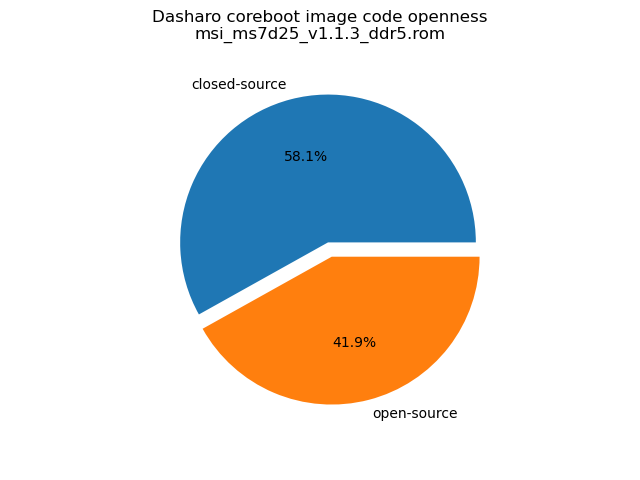
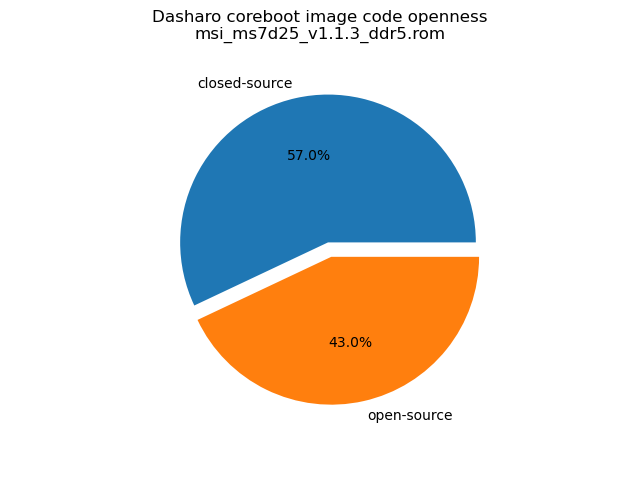
docs/variants/msi_z690: Update the v1.1.3 release info

diff --git a/docs/variants/msi_z690/releases.md b/docs/variants/msi_z690/releases.md
@@ -11,10 +11,10 @@ For details about our release process please read
 [newsletter]{.md-button .md-button--primary .center}
 </center>
 
-Test results for this platform can be found
-[here](https://docs.google.com/spreadsheets/d/16wokQYhtS7XA1DQC3Om7FY-IImG6SZisGK7NnzyRGVY/edit?usp=sharing).
+## v1.1.3 - 2024-01-17
 
-## v1.1.3 - 2024-01-03
+Test results for this release can be found
+[here](https://docs.google.com/spreadsheets/d/1wSE6xA3K3nXewwLn5lV39_2wZL1kg5AkGb4mvmG3bwE/edit#gid=1143764851).
 
 ### Added
 
@@ -26,11 +26,11 @@ Test results for this platform can be found
 - [Serial Console Redirection option](https://docs.dasharo.com/dasharo-menu-docs/dasharo-system-features/#serial-port-configuration)
 - [Power state after power fail option](https://docs.dasharo.com/dasharo-menu-docs/dasharo-system-features/#power-management-options)
 - [Option for Resizable BARs enabling](https://docs.dasharo.com/dasharo-menu-docs/dasharo-system-features/#pcipcie-configuration)
-- [ESP partition scanning in look for grubx64.efi or shimx64.efi or Windows
-  bootmgr](https://github.com/Dasharo/dasharo-issues/issues/94)
+- [ESP partition scanning in look for grubx64.efi or shimx64.efi or Windows bootmgr](https://github.com/Dasharo/dasharo-issues/issues/94)
 - Memory speed is displayed in the firmware setup main page
 - [Support for taking screenshots in the firmware](https://docs.dasharo.com/dev-proc/screenshots/#taking-screenshots)
 - Microsoft and Windows 2023 UEFI Secure Boot certificates
+- Disabling ME and unlocking descriptor with HMRFPO command on FUM flow
 
 ### Changed
 
@@ -47,18 +47,21 @@ Test results for this platform can be found
 - [Improved UEFI Secure Boot menu user experience](https://docs.dasharo.com/dasharo-menu-docs/device-manager/#secure-boot-configuration)
 - Scope of reset to default hotkey to global in firmware setup
 - Booting DTS over iPXE via HTTPS
+- Removed the i225/i226 EFI driver from the builds in favor of native iPXE
+  driver
+- Switched iPXE repository to Dasharo fork for the native iPXE driver for
+  i225/i226
 
 ### Fixed
 
 - [No audio playback via headset](https://github.com/Dasharo/dasharo-issues/issues/483)
 - [Auto Boot Time-out is reset to 0 when F9 is pressed](https://github.com/Dasharo/dasharo-issues/issues/513)
-- [Some RPL-S CPUs ( 0xB06F2 (RPL-S C0) or 0xB06F5 (RPL-S H0)) have a problem
-  with booting on v1.1.2](https://github.com/Dasharo/dasharo-issues/issues/496)
+- [Some RPL-S CPUs ( 0xB06F2 (RPL-S C0) or 0xB06F5 (RPL-S H0)) have a problem with booting on v1.1.2](https://github.com/Dasharo/dasharo-issues/issues/496)
 - [Change boot order menu is confusing](https://github.com/Dasharo/dasharo-issues/issues/422)
-- [The setup menu does not issue a reset, resulting in saved but unapplied
-  settings](https://github.com/Dasharo/dasharo-issues/issues/398)
-- [PCI Express Resizable BAR programming](https://github.com/Dasharo/dasharo-issues/)
+- [The setup menu does not issue a reset, resulting in saved but unapplied settings](https://github.com/Dasharo/dasharo-issues/issues/398)
+- [PCI Express Resizable BAR programming](https://github.com/Dasharo/dasharo-issues/issues/565)
 - [PCI Express resource allocation for Intel ARC A750](https://github.com/Dasharo/dasharo-issues/issues/584)
+- [CPU frequency not displayed on setup front page](https://github.com/Dasharo/dasharo-issues/issues/662)
 - P2SB BAR not properly reserved in ACPI
 - Power LED not blinking during S3 sleep
 - PS/2 controller not enabled at first boot after flashing
@@ -69,10 +72,26 @@ Test results for this platform can be found
 
 - [Windows 11 installer unable to detect i225 Ethernet NIC](https://github.com/Dasharo/dasharo-issues/issues/482)
 - [Cannot wake from suspend via RTC on QubesOS](https://github.com/Dasharo/dasharo-issues/issues/484)
-- [Windows 11 VBS (Virtualization-based Security) appears Not enabled on
-  System Information](https://github.com/Dasharo/dasharo-issues/issues/539)
+- [Windows 11 VBS (Virtualization-based Security) appears Not enabled on System Information](https://github.com/Dasharo/dasharo-issues/issues/539)
+- [No ability to change active PCR banks with TPM PPI in FW](https://github.com/Dasharo/dasharo-issues/issues/521)
 
 ### Binaries
+
+[sha256][msi_ms7d25_v1.1.3_ddr4.rom_hash]{.md-button}
+[sha256.sig][msi_ms7d25_v1.1.3_ddr4.rom_sig]{.md-button}
+(msi_ms7d25_v1.1.3_ddr4)
+
+[sha256][msi_ms7d25_v1.1.3_ddr4_dev_signed.rom_hash]{.md-button}
+[sha256.sig][msi_ms7d25_v1.1.3_ddr4_dev_signed.rom_sig]{.md-button}
+(msi_ms7d25_v1.1.3_ddr4_dev_signed)
+
+[sha256][msi_ms7d25_v1.1.3_ddr5.rom_hash]{.md-button}
+[sha256.sig][msi_ms7d25_v1.1.3_ddr5.rom_sig]{.md-button}
+(msi_ms7d25_v1.1.3_ddr5)
+
+[sha256][msi_ms7d25_v1.1.3_ddr5_dev_signed.rom_hash]{.md-button}
+[sha256.sig][msi_ms7d25_v1.1.3_ddr5_dev_signed.rom_sig]{.md-button}
+(msi_ms7d25_v1.1.3_ddr5_dev_signed)
 
 This is a Dasharo Entry Subscription Release. To obtain access to the pre-built
 binaries you will have to
@@ -80,19 +99,26 @@ binaries you will have to
 You will get the access to all of the firmware updates for the duration of the
 subscription via Dasharo Entry Subscription newsletter.
 
+To verify binary integrity with hash and signature please follow the
+instructions in [Dasharo release signature verification](/guides/signature-verification)
+using [this key](https://raw.githubusercontent.com/3mdeb/3mdeb-secpack/master/dasharo/msi_ms7d25/dasharo-release-1.x-compatible-with-msi-ms-7d25-signing-key.asc)
+
 ### SBOM (Software Bill of Materials)
 
-- [Dasharo coreboot fork based on 4.21 revision e704a403](https://github.com/Dasharo/coreboot/tree/e704a403)
+- [Dasharo coreboot fork based on 4.21 revision 2c5426c3](https://github.com/Dasharo/coreboot/tree/2c5426c3)
 - [Dasharo EDKII fork based on edk2-stable202002 revision 11746340](https://github.com/Dasharo/edk2/tree/11746340)
-- [iPXE based on 2023.8 revision 9e99a55b](https://github.com/ipxe/ipxe/tree/9e99a55b)
+- [iPXE based on 2023.12 revision 838611b3](https://github.com/Dasharo/ipxe/tree/838611b3)
 - [vboot based on 0c11187c75 revision 0c11187c](https://chromium.googlesource.com/chromiumos/platform/vboot_reference/+/0c11187c/)
-- [Intel Management Engine based on v16.1.30.2307 revision d4e4dca1](https://github.com/Dasharo/dasharo-blobs/blob/d4e4dca1/msi/ms7d25/me.bin)
-- [Intel Flash Descriptor based on v1.0 revision d4e4dca1](https://github.com/Dasharo/dasharo-blobs/blob/d4e4dca1/msi/ms7d25/descriptor.bin)
+- [Intel Management Engine based on v16.1.30.2307 revision 18aab76c](https://github.com/Dasharo/dasharo-blobs/blob/18aab76c/msi/ms7d25/me.bin)
+- [Intel Flash Descriptor based on v1.0 revision 18aab76c](https://github.com/Dasharo/dasharo-blobs/blob/18aab76c/msi/ms7d25/descriptor.bin)
 - [Intel Firmware Support Package based on RPL-S C.0.BD.40 revision 481ea7cf](https://github.com/intel/FSP/tree/481ea7cf/RaptorLakeFspBinPkg/Client/RaptorLakeS)
 - [Intel microcode based on ADL/RPL C0/H0 0x0000002e revision microcode-20230808](https://github.com/intel/Intel-Linux-Processor-Microcode-Data-Files/tree/microcode-20230808/intel-ucode/06-97-05)
 - [Intel microcode based on RPL B0 0x00000119 revision microcode-20230808](https://github.com/intel/Intel-Linux-Processor-Microcode-Data-Files/tree/microcode-20230808/intel-ucode/06-b7-01)
 
 ## v1.1.2 - 2023-09-06
+
+Test results for this release can be found
+[here](https://docs.google.com/spreadsheets/d/16wokQYhtS7XA1DQC3Om7FY-IImG6SZisGK7NnzyRGVY/edit?usp=sharing).
 
 ### Added
 
@@ -205,6 +231,9 @@ using [this key](https://raw.githubusercontent.com/3mdeb/3mdeb-secpack/master/da
 - [Dasharo EDKII fork based on dd7523b5b1 revision a913e338](https://github.com/Dasharo/edk2/tree/a913e338)
 
 ## v1.1.0 - 2022-11-22
+
+Test results for this release can be found
+[here](https://docs.google.com/spreadsheets/d/16wokQYhtS7XA1DQC3Om7FY-IImG6SZisGK7NnzyRGVY/edit?usp=sharing).
 
 ### Added
 
@@ -366,6 +395,9 @@ gpg --verify msi_ms7d25_v1.0.0.rom.sha256.sig msi_ms7d25_v1.0.0.rom.sha256
 
 ## v0.4.0 - 2022-05-13
 
+Test results for this release can be found
+[here](https://docs.google.com/spreadsheets/d/16wokQYhtS7XA1DQC3Om7FY-IImG6SZisGK7NnzyRGVY/edit?usp=sharing).
+
 ### Added
 
 - [Verified boot support](https://docs.dasharo.com/unified-test-documentation/dasharo-security/201-verified-boot/)
@@ -409,6 +441,9 @@ gpg --verify msi_ms7d25_v0.4.0.rom.sha256.sig msi_ms7d25_v0.4.0.rom.sha256
 - [edk2 based on 4d2846ba revision 5494c8e2](https://github.com/Dasharo/edk2/tree/5494c8e2)
 
 ## v0.3.0 - 2022-05-05
+
+Test results for this release can be found
+[here](https://docs.google.com/spreadsheets/d/16wokQYhtS7XA1DQC3Om7FY-IImG6SZisGK7NnzyRGVY/edit?usp=sharing).
 
 ### Added
 
@@ -458,6 +493,9 @@ gpg --verify msi_ms7d25_v0.3.0.rom.sha256.sig msi_ms7d25_v0.3.0.rom.sha256
 
 ## v0.2.0 - 2022-04-22
 
+Test results for this release can be found
+[here](https://docs.google.com/spreadsheets/d/16wokQYhtS7XA1DQC3Om7FY-IImG6SZisGK7NnzyRGVY/edit?usp=sharing).
+
 ### Added
 
 - Configurable boot order
@@ -504,6 +542,9 @@ gpg --verify msi_ms7d25_v0.2.0.rom.sha256.sig msi_ms7d25_v0.2.0.rom.sha256
 
 ## v0.1.0 - 2022-04-13
 
+Test results for this release can be found
+[here](https://docs.google.com/spreadsheets/d/16wokQYhtS7XA1DQC3Om7FY-IImG6SZisGK7NnzyRGVY/edit?usp=sharing).
+
 ### Added
 
 - Initial support for the MSI PRO Z690-A WIFI DDR4 platform
@@ -549,6 +590,14 @@ gpg --verify msi_ms7d25_v0.1.0.rom.sha256.sig msi_ms7d25_v0.1.0.rom.sha256
 - [edk2 based on 4d2846ba revision 4d2846ba](https://github.com/Dasharo/edk2/tree/4d2846ba)
 
 [newsletter]: https://newsletter.3mdeb.com/subscription/aKgTJjYEA
+[msi_ms7d25_v1.1.3_ddr4.rom_hash]: https://dl.3mdeb.com/open-source-firmware/Dasharo/msi_ms7d25/v1.1.3/msi_ms7d25_v1.1.3_ddr4.rom.sha256
+[msi_ms7d25_v1.1.3_ddr4.rom_sig]: https://dl.3mdeb.com/open-source-firmware/Dasharo/msi_ms7d25/v1.1.3/msi_ms7d25_v1.1.3_ddr4.rom.sha256.sig
+[msi_ms7d25_v1.1.3_ddr4_dev_signed.rom_hash]: https://dl.3mdeb.com/open-source-firmware/Dasharo/msi_ms7d25/v1.1.3/msi_ms7d25_v1.1.3_ddr4_dev_signed.rom.sha256
+[msi_ms7d25_v1.1.3_ddr4_dev_signed.rom_sig]: https://dl.3mdeb.com/open-source-firmware/Dasharo/msi_ms7d25/v1.1.3/msi_ms7d25_v1.1.3_ddr4_dev_signed.rom.sha256.sig
+[msi_ms7d25_v1.1.3_ddr5.rom_hash]: https://dl.3mdeb.com/open-source-firmware/Dasharo/msi_ms7d25/v1.1.3/msi_ms7d25_v1.1.3_ddr5.rom.sha256
+[msi_ms7d25_v1.1.3_ddr5.rom_sig]: https://dl.3mdeb.com/open-source-firmware/Dasharo/msi_ms7d25/v1.1.3/msi_ms7d25_v1.1.3_ddr5.rom.sha256.sig
+[msi_ms7d25_v1.1.3_ddr5_dev_signed.rom_hash]: https://dl.3mdeb.com/open-source-firmware/Dasharo/msi_ms7d25/v1.1.3/msi_ms7d25_v1.1.3_ddr5_dev_signed.rom.sha256
+[msi_ms7d25_v1.1.3_ddr5_dev_signed.rom_sig]: https://dl.3mdeb.com/open-source-firmware/Dasharo/msi_ms7d25/v1.1.3/msi_ms7d25_v1.1.3_ddr5_dev_signed.rom.sha256.sig
 [msi_ms7d25_v1.1.1_ddr4.rom_file]: https://3mdeb.com/open-source-firmware/Dasharo/msi_ms7d25/v1.1.1/msi_ms7d25_v1.1.1_ddr4.rom
 [msi_ms7d25_v1.1.1_ddr4.rom_hash]: https://3mdeb.com/open-source-firmware/Dasharo/msi_ms7d25/v1.1.1/msi_ms7d25_v1.1.1_ddr4.rom.sha256
 [msi_ms7d25_v1.1.1_ddr4.rom_sig]: https://3mdeb.com/open-source-firmware/Dasharo/msi_ms7d25/v1.1.1/msi_ms7d25_v1.1.1_ddr4.rom.sha256.sig

diff --git a/docs/variants/msi_z690/openness_score.md b/docs/variants/msi_z690/openness_score.md
@@ -13,16 +13,16 @@ is available [here](openness_analysis.md).
 
 Openness Score for msi_ms7d25_v1.1.3_ddr5.rom
 
-Open-source code percentage: **41.9%**
-Closed-source code percentage: **58.1%**
+Open-source code percentage: **43.0%**
+Closed-source code percentage: **57.0%**
 
 * Image size: 33554432 (0x2000000)
 * Number of regions: 37
 * Number of CBFSes: 4
-* Total open-source code size: 6928948 (0x69ba34)
-* Total closed-source code size: 9608432 (0x929cf0)
-* Total data size: 948290 (0xe7842)
-* Total empty size: 16068762 (0xf5309a)
+* Total open-source code size: 6949213 (0x6a095d)
+* Total closed-source code size: 9218180 (0x8ca884)
+* Total data size: 948357 (0xe7885)
+* Total empty size: 16438682 (0xfad59a)
 
 ![](msi_ms7d25_v1.1.3_ddr5.rom_openness_chart.png)
 
@@ -79,10 +79,10 @@ Closed-source code percentage: **58.1%**
 
 * CBFS size: 4816640
 * Number of files: 13
-* Open-source files size: 2279932 (0x22c9fc)
-* Closed-source files size: 1631312 (0x18e450)
-* Data size: 8573 (0x217d)
-* Empty size: 896823 (0xdaf37)
+* Open-source files size: 2286687 (0x22e45f)
+* Closed-source files size: 1501228 (0x16e82c)
+* Data size: 8606 (0x219e)
+* Empty size: 1020119 (0xf90d7)
 
 > Numbers given above are already normalized (i.e. they already include size
 > of metadata and possible closed-source LAN drivers included in the payload
@@ -91,27 +91,27 @@ Closed-source code percentage: **58.1%**
 | CBFS filename | CBFS filetype | Size | Compression | Category |
 | ------------- | ------------- | ---- | ----------- | -------- |
 | fallback/romstage | stage | 103280 | none | open-source |
-| fallback/ramstage | stage | 149355 | LZMA | open-source |
+| fallback/ramstage | stage | 149834 | LZMA | open-source |
 | fallback/dsdt.aml | raw | 11264 | none | open-source |
 | fallback/postcar | stage | 34328 | none | open-source |
-| fallback/payload | simple elf | 2111789 | none | open-source |
+| fallback/payload | simple elf | 1987981 | none | open-source |
 | cpu_microcode_blob.bin | microcode | 431104 | none | closed-source |
 | fspm.bin | fsp | 786432 | none | closed-source |
 | fsps.bin | fsp | 283692 | LZ4 | closed-source |
-| config | raw | 5401 | LZMA | data |
+| config | raw | 5395 | LZMA | data |
 | revision | raw | 850 | none | data |
 | build_info | raw | 138 | none | data |
 | vbt.bin | raw | 1257 | LZMA | data |
-| (empty) | null | 1124 | none | empty |
+| (empty) | null | 612 | none | empty |
 
 ### CBFS FW_MAIN_B
 
 * CBFS size: 4259584
 * Number of files: 13
-* Open-source files size: 2279932 (0x22c9fc)
-* Closed-source files size: 1631312 (0x18e450)
-* Data size: 8573 (0x217d)
-* Empty size: 339767 (0x52f37)
+* Open-source files size: 2286687 (0x22e45f)
+* Closed-source files size: 1501228 (0x16e82c)
+* Data size: 8606 (0x219e)
+* Empty size: 463063 (0x710d7)
 
 > Numbers given above are already normalized (i.e. they already include size
 > of metadata and possible closed-source LAN drivers included in the payload
@@ -120,27 +120,27 @@ Closed-source code percentage: **58.1%**
 | CBFS filename | CBFS filetype | Size | Compression | Category |
 | ------------- | ------------- | ---- | ----------- | -------- |
 | fallback/romstage | stage | 103280 | none | open-source |
-| fallback/ramstage | stage | 149355 | LZMA | open-source |
+| fallback/ramstage | stage | 149834 | LZMA | open-source |
 | fallback/dsdt.aml | raw | 11264 | none | open-source |
 | fallback/postcar | stage | 34328 | none | open-source |
-| fallback/payload | simple elf | 2111789 | none | open-source |
+| fallback/payload | simple elf | 1987981 | none | open-source |
 | cpu_microcode_blob.bin | microcode | 431104 | none | closed-source |
 | fspm.bin | fsp | 786432 | none | closed-source |
 | fsps.bin | fsp | 283692 | LZ4 | closed-source |
-| config | raw | 5401 | LZMA | data |
+| config | raw | 5395 | LZMA | data |
 | revision | raw | 850 | none | data |
 | build_info | raw | 138 | none | data |
 | vbt.bin | raw | 1257 | LZMA | data |
-| (empty) | null | 1124 | none | empty |
+| (empty) | null | 612 | none | empty |
 
 ### CBFS COREBOOT
 
 * CBFS size: 4161536
 * Number of files: 17
-* Open-source files size: 2369084 (0x24263c)
-* Closed-source files size: 1631312 (0x18e450)
-* Data size: 9004 (0x232c)
-* Empty size: 152136 (0x25248)
+* Open-source files size: 2375839 (0x24409f)
+* Closed-source files size: 1501228 (0x16e82c)
+* Data size: 9005 (0x232d)
+* Empty size: 275464 (0x43408)
 
 > Numbers given above are already normalized (i.e. they already include size
 > of metadata and possible closed-source LAN drivers included in the payload
@@ -149,19 +149,19 @@ Closed-source code percentage: **58.1%**
 | CBFS filename | CBFS filetype | Size | Compression | Category |
 | ------------- | ------------- | ---- | ----------- | -------- |
 | fallback/romstage | stage | 103280 | none | open-source |
-| fallback/ramstage | stage | 149355 | LZMA | open-source |
+| fallback/ramstage | stage | 149834 | LZMA | open-source |
 | fallback/dsdt.aml | raw | 11264 | none | open-source |
 | fallback/postcar | stage | 34328 | none | open-source |
-| fallback/payload | simple elf | 2111789 | none | open-source |
+| fallback/payload | simple elf | 1987981 | none | open-source |
 | bootblock | bootblock | 89152 | none | open-source |
 | cpu_microcode_blob.bin | microcode | 431104 | none | closed-source |
 | fspm.bin | fsp | 786432 | none | closed-source |
 | fsps.bin | fsp | 283692 | LZ4 | closed-source |
 | cbfs_master_header | cbfs header | 28 | none | data |
 | intel_fit | intel_fit | 80 | none | data |
-| config | raw | 5401 | LZMA | data |
+| config | raw | 5395 | LZMA | data |
 | revision | raw | 850 | none | data |
 | build_info | raw | 138 | none | data |
 | vbt.bin | raw | 1257 | LZMA | data |
-| (empty) | null | 868 | none | empty |
-| (empty) | null | 151268 | none | empty |
+| (empty) | null | 356 | none | empty |
+| (empty) | null | 275108 | none | empty |
